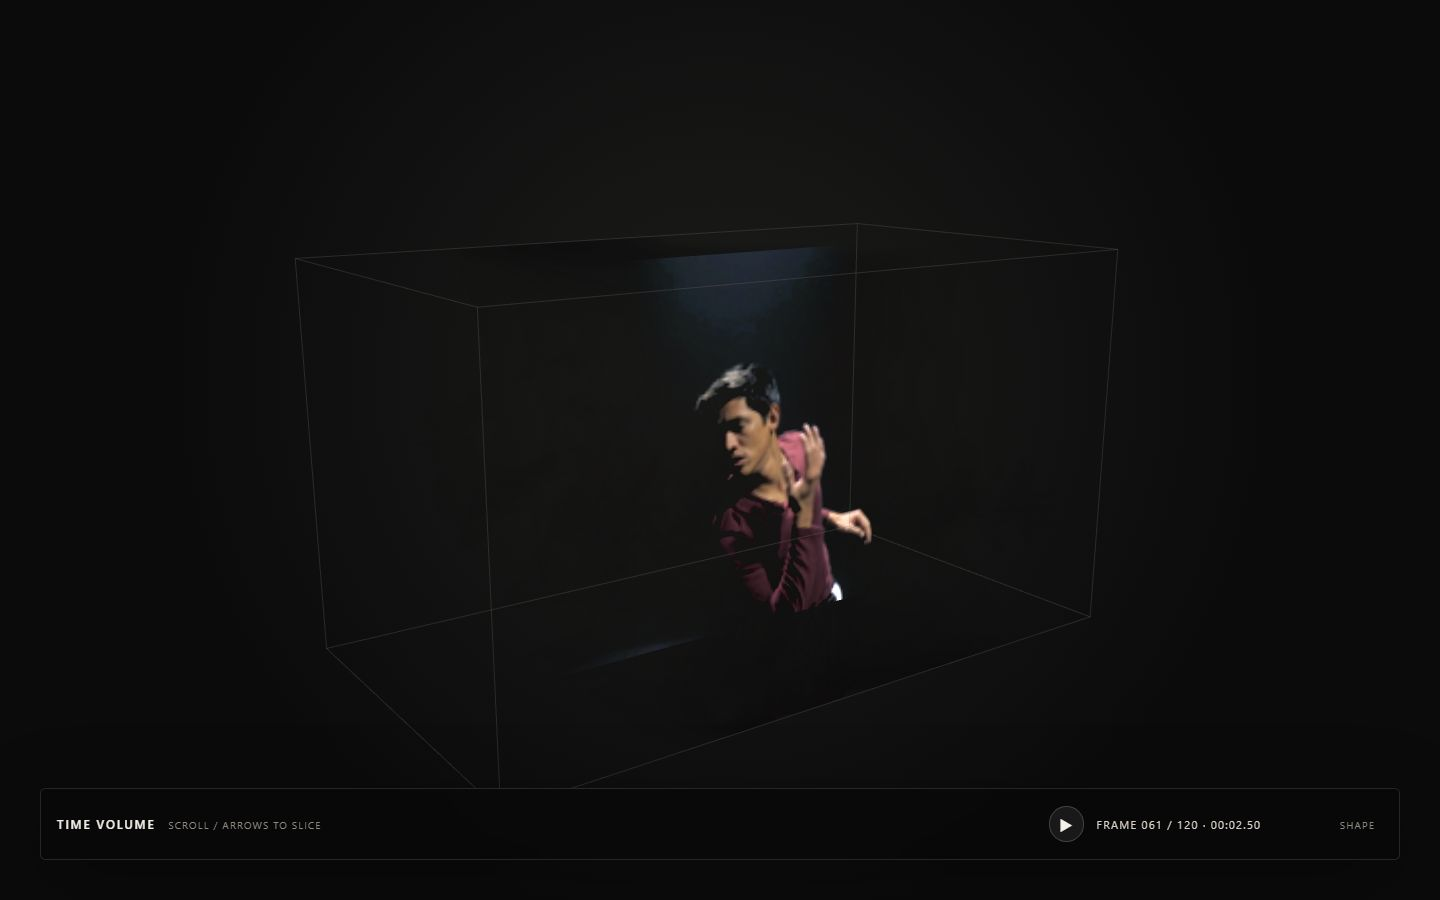
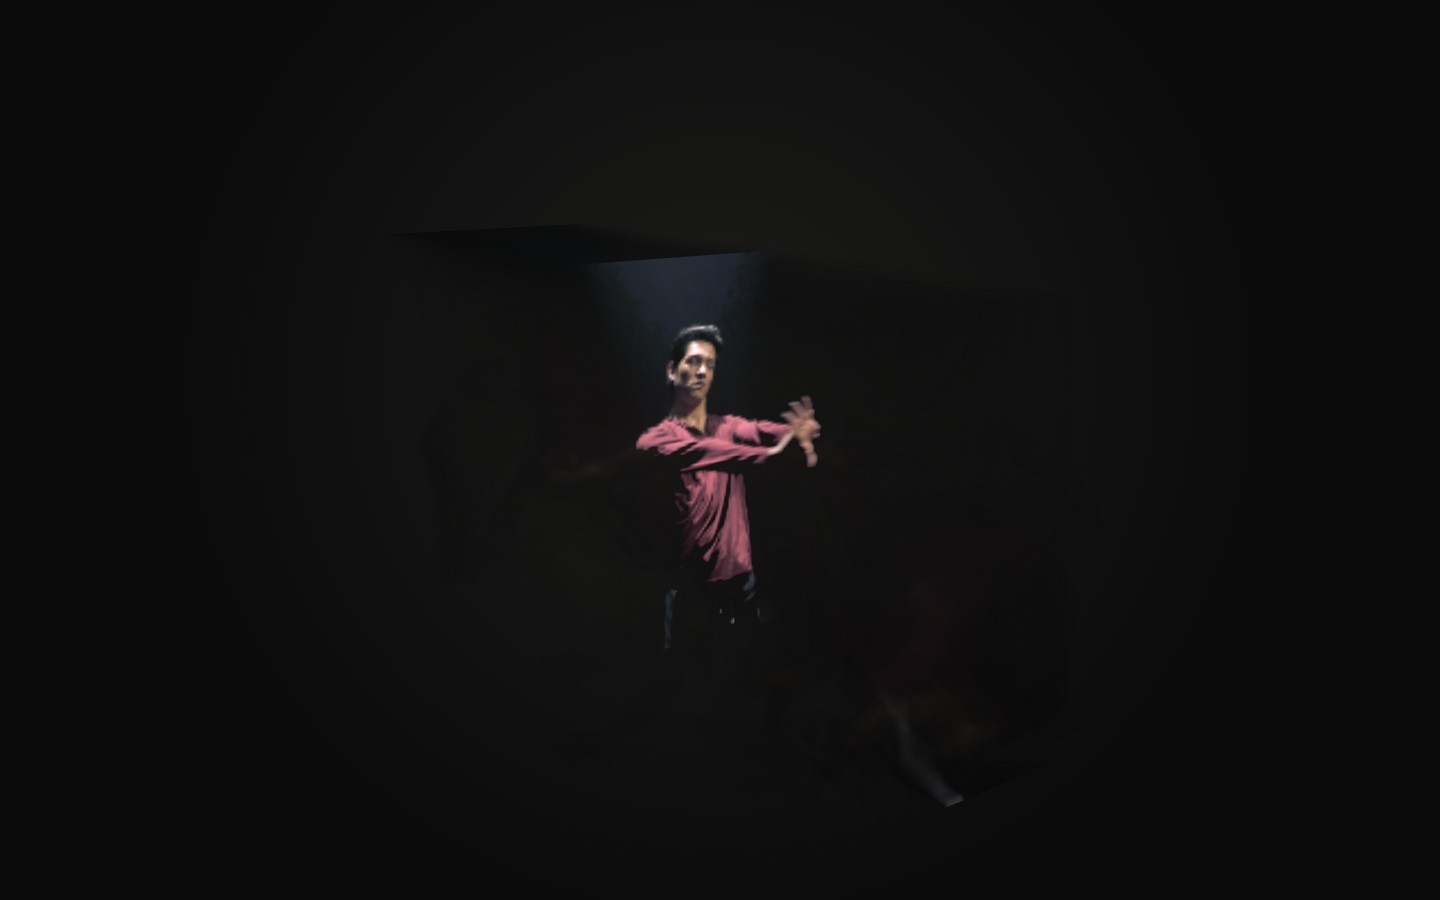
updated the readme for local videos

diff --git a/README.md b/README.md
@@ -1,27 +1,28 @@
 # Time Volume
 
-A dancer recorded as a block of time you can move through.
+A local video transformed into a block of time you can move through.
 
-Every video frame is stacked along the depth axis. Scroll or use the arrow keys to move the highlighted slice through the performance while the surrounding frames remain visible as a translucent volume.
+Choose a video and its first five seconds are processed entirely in your browser. Every sampled frame is stacked along the depth axis; scroll or use the arrow keys to move the highlighted slice through the recording while the surrounding frames remain visible as a translucent volume.
 
-![A dancer shown as a slice through a three-dimensional time volume](media/time-volume.jpg)
+![A video shown as a slice through a three-dimensional time volume](media/time-volume.jpg)
 
 ## How it works
 
-1. **Source.** A fixed five-second excerpt is sampled at 24 frames per second, giving the volume 120 chronological layers.
-2. **Pack.** The build script scales each frame to 256×144, derives transparency from luminance, flips its rows for WebGL coordinates, and writes one deterministic RGBA binary.
-3. **Upload.** The browser validates the metadata and byte count before loading the frames into a WebGL 3D texture.
-4. **Volume.** A GLSL ray marcher accumulates the nearby frames into the dark, translucent body of the performance.
-5. **Slice.** A separate plane samples the selected frame at full clarity so the dancer remains legible inside the history.
-6. **Explore.** The wheel and arrow keys move through time. Dragging orbits the camera, pinching zooms, and the shape controls change density, slice thickness, and time depth.
+1. **Choose.** A local video stays on the device; the app never uploads it to a server.
+2. **Sample.** The browser takes 120 chronological frames from up to the first five seconds and scales each one to 256×144.
+3. **Pack.** Each frame gets transparency from luminance and is packed into one GPU-ready RGBA volume.
+4. **Upload.** The browser loads that volume into a WebGL 3D texture.
+5. **Volume.** A GLSL ray marcher accumulates nearby frames into the dark, translucent body of the recording.
+6. **Slice.** A separate plane samples the selected frame at full clarity so the subject remains legible inside the history.
+7. **Explore.** The wheel and arrow keys move through time. Dragging orbits the camera and pinching zooms.
 
 ## System design
 
 ```mermaid
 flowchart LR
-  V["Licensed source video"] --> B["FFmpeg + Sharp volume builder"]
+  V["Local video file"] --> B["Native browser decoder + Canvas"]
   B --> R["RGBA volume\n256 × 144 × 120"]
-  B --> M["Validated metadata"]
+  B --> M["In-memory metadata"]
   R --> T["WebGL 3D texture"]
   M --> T
   T --> H["Ray-marched history"]
@@ -33,20 +34,18 @@ flowchart LR
   S --> C
 ```
 
-The source MP4 stays out of Git. The transformed volume is committed so the experience is fixed, reproducible, and does not depend on a remote video host at runtime.
+The selected file and transformed pixels remain in memory inside the browser. Nothing is sent to a backend or remote video host.
 
 ## Controls
 
-| Input                | Action                                     |
-| -------------------- | ------------------------------------------ |
-| Wheel or arrow keys  | Move through frames                        |
-| Space or play button | Play or pause                              |
-| Drag                 | Orbit the volume                           |
-| Pinch                | Zoom                                       |
-| Double-click         | Refocus the camera                         |
-| `H`                  | Hide or show the interface                 |
-| `R`                  | Reset the view                             |
-| Shape controls       | Adjust density, slice thickness, and depth |
+| Input               | Action              |
+| ------------------- | ------------------- |
+| Wheel or arrow keys | Move through frames |
+| Space               | Play or pause       |
+| Drag                | Orbit the volume    |
+| Pinch               | Zoom                |
+| Double-click        | Refocus the camera  |
+| `R`                 | Reset the view      |
 
 ## Run it
 
@@ -55,7 +54,7 @@ npm install
 npm run dev
 ```
 
-Open the local URL printed by Vite. The committed dancer volume is ready to use.
+Open the local URL printed by Vite and choose a video. Current desktop browsers work best with MP4 or WebM files they can decode natively.
 
 ```bash
 npm test -- --run
@@ -63,7 +62,7 @@ npm run test:e2e
 npm run build
 ```
 
-To rebuild the volume from a locally retained source file:
+The repository also retains the original reproducible dancer-volume pipeline:
 
 ```bash
 npm run volume:build -- --input assets/source/dancer.mp4 --start 00:00:04.000 --duration 5
@@ -71,15 +70,15 @@ npm run volume:build -- --input assets/source/dancer.mp4 --start 00:00:04.000 --
 
 ## Repository map
 
-| Path                      | What's in it                                                                          |
-| ------------------------- | ------------------------------------------------------------------------------------- |
-| `src/`                    | application state, controls, camera, UI, WebGL renderer, and shaders                  |
-| `scripts/build-volume.ts` | deterministic video-to-volume pipeline                                                |
-| `public/volume/`          | the production RGBA volume and its metadata                                           |
-| `assets/source/`          | source provenance and rebuild notes; the MP4 itself is ignored                        |
-| `tests/`                  | state, controls, asset validation, pipeline, rendering, and browser interaction tests |
-| `media/`                  | repository imagery                                                                    |
+| Path                      | What's in it                                                                    |
+| ------------------------- | ------------------------------------------------------------------------------- |
+| `src/`                    | video processing, state, controls, camera, chooser, WebGL renderer, and shaders |
+| `scripts/build-volume.ts` | deterministic offline video-to-volume pipeline                                  |
+| `public/volume/`          | the original production RGBA volume and metadata                                |
+| `assets/source/`          | source provenance and rebuild notes; the MP4 itself is ignored                  |
+| `tests/`                  | sampling, state, controls, rendering, and browser interaction tests             |
+| `media/`                  | repository imagery                                                              |
 
 ## Credits
 
-The performance footage is [Dancing in the dark](https://mixkit.co/free-stock-video/dancing-in-the-dark-1026/) from Mixkit, used under the [Mixkit Stock Video Free License](https://mixkit.co/license/#videoFree). Rendering uses [Three.js](https://threejs.org/); video preparation uses [FFmpeg](https://ffmpeg.org/) and [Sharp](https://sharp.pixelplumbing.com/).
+The original example footage is [Dancing in the dark](https://mixkit.co/free-stock-video/dancing-in-the-dark-1026/) from Mixkit, used under the [Mixkit Stock Video Free License](https://mixkit.co/license/#videoFree). Rendering uses [Three.js](https://threejs.org/). The optional offline pipeline uses [FFmpeg](https://ffmpeg.org/) and [Sharp](https://sharp.pixelplumbing.com/).
